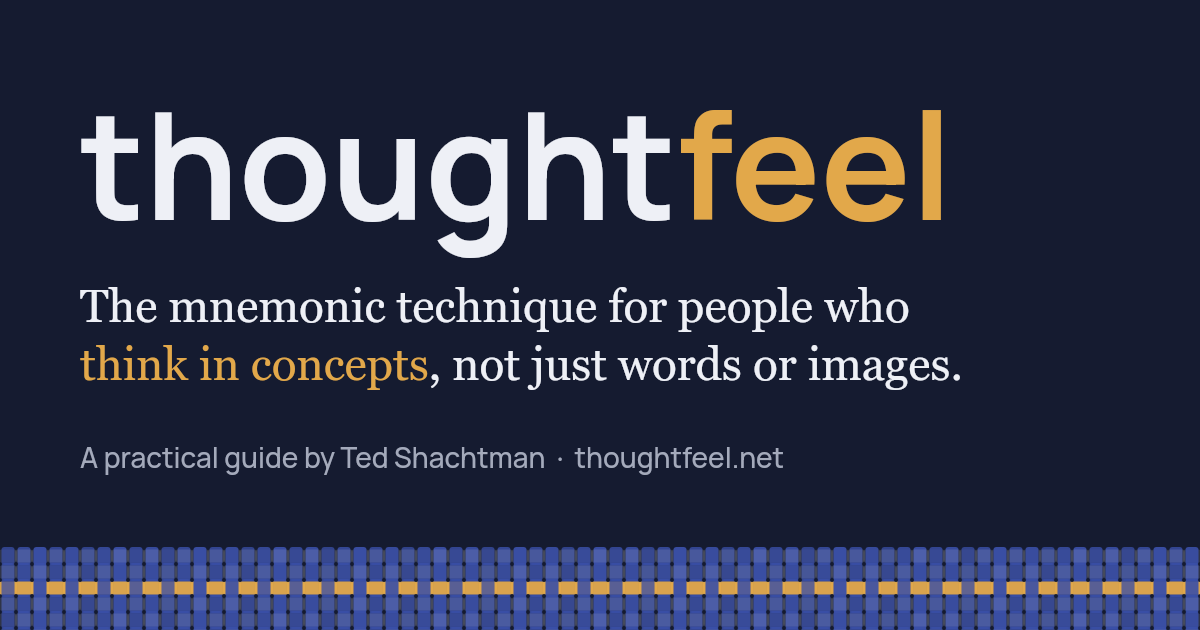
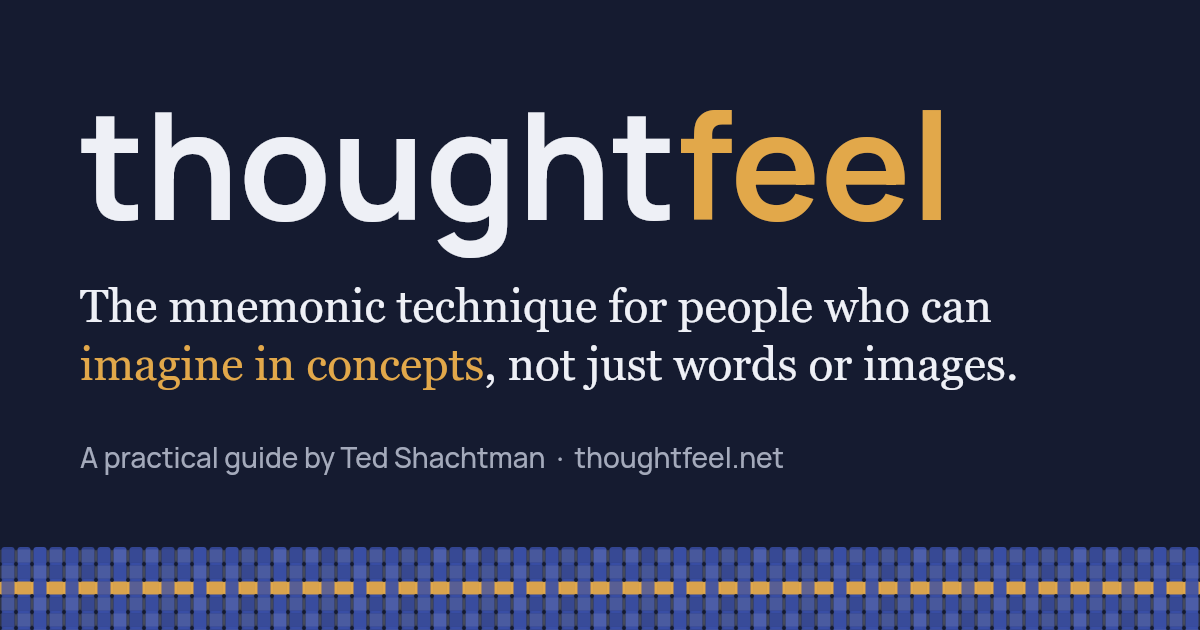
Update site

Changed region(s): [[0.0617, 0.5429, 0.8633, 0.6333], [0.7708, 0.4524, 0.8325, 0.5127]]

diff --git a/index.html b/index.html
@@ -3,21 +3,21 @@
 <head>
 <meta charset="utf-8">
 <meta name="viewport" content="width=device-width, initial-scale=1, viewport-fit=cover">
-<meta name="description" content="The mnemonic technique for people who think in concepts, not just words or images. Use the feel of your thoughts to remember more and learn faster.">
+<meta name="description" content="The mnemonic technique for people who can imagine in concepts, not just words or images. Take the 1-minute test.">
 <link rel="canonical" href="https://thoughtfeel.net/">
 <link rel="icon" href="favicon.svg" type="image/svg+xml">
 <meta property="og:type" content="website">
 <meta property="og:site_name" content="thoughtfeel">
 <meta property="og:title" content="thoughtfeel: a practical guide">
-<meta property="og:description" content="The mnemonic technique for people who think in concepts, not just words or images. Use the feel of your thoughts to remember more and learn faster.">
+<meta property="og:description" content="The mnemonic technique for people who can imagine in concepts, not just words or images. Take the 1-minute test.">
 <meta property="og:url" content="https://thoughtfeel.net/">
 <meta property="og:image" content="https://thoughtfeel.net/og.png">
 <meta property="og:image:width" content="1200">
 <meta property="og:image:height" content="630">
-<meta property="og:image:alt" content="thoughtfeel: the mnemonic technique for people who think in concepts, not just words or images.">
+<meta property="og:image:alt" content="thoughtfeel: the mnemonic technique for people who can imagine in concepts, not just words or images.">
 <meta name="twitter:card" content="summary_large_image">
 <meta name="twitter:title" content="thoughtfeel: a practical guide">
-<meta name="twitter:description" content="The mnemonic technique for people who think in concepts, not just words or images. Use the feel of your thoughts to remember more and learn faster.">
+<meta name="twitter:description" content="The mnemonic technique for people who can imagine in concepts, not just words or images. Take the 1-minute test.">
 <meta name="twitter:image" content="https://thoughtfeel.net/og.png">
 </head>
 <body>
@@ -307,6 +307,42 @@
   .miss { color: var(--miss); }
   .linkish { background: none; border: 0; padding: 0; font: inherit; font-size: 15px; color: var(--ink-2); text-decoration: underline; text-underline-offset: 3px; cursor: pointer; }
 
+  /* ---------- The test (imagine in concepts) ---------- */
+  .imt + .try { margin-top: 40px; }
+  .imt .imt-grid { display: grid; grid-template-columns: minmax(0, 1fr); gap: 28px 48px; margin-top: 24px; align-items: start; }
+  @media (min-width: 900px) { .imt .imt-grid { grid-template-columns: minmax(0, .85fr) minmax(0, 1.15fr); } }
+  .imt .imt-ways-title { font-family: var(--sans); font-weight: 700; font-size: 18px; margin: 0 0 12px; }
+  .imt .imt-ways { list-style: none; margin: 0; padding: 0; display: grid; gap: 12px; }
+  .imt .imt-ways li { display: grid; grid-template-columns: 10ch minmax(0, 1fr); gap: 12px; align-items: baseline; padding-bottom: 12px; border-bottom: 1px solid var(--rule); }
+  .imt .imt-ways li:last-child { border-bottom: 0; padding-bottom: 0; }
+  .imt .imt-ways b { font-family: var(--sans); font-weight: 500; }
+  .imt .imt-ways .gold b { color: var(--term); }
+  .imt .imt-ways span { color: var(--ink-2); font-size: 16px; line-height: 1.5; }
+  .imt .imt-panel { min-height: 330px; }
+  .imt .imt-progress { display: grid; grid-template-columns: repeat(5, 1fr); gap: 6px; }
+  .imt .imt-progress span { height: 4px; border-radius: 2px; background: var(--rule); }
+  .imt .imt-progress .done { background: var(--indigo); }
+  .imt .imt-progress .now { background: var(--weld); }
+  .imt .imt-label { font-family: var(--mono); font-size: 12.5px; letter-spacing: .1em; text-transform: uppercase; color: var(--term); margin: 0; }
+  .imt .imt-prompt { font-size: clamp(20px, 2.2vw, 23px); line-height: 1.45; margin: 0; outline: none; text-wrap: pretty; }
+  .imt .imt-q { font-family: var(--sans); font-weight: 500; font-size: 17px; line-height: 1.4; margin: 0; }
+  .imt .imt-choices { display: flex; flex-wrap: wrap; gap: 10px; }
+  .imt .imt-choice { background: var(--surface); }
+  .imt .imt-choice:hover { background: var(--indigo-soft); }
+  .imt .imt-head { font-family: var(--sans); font-weight: 700; font-size: clamp(22px, 2.6vw, 28px); line-height: 1.2; letter-spacing: -0.01em; margin: 0; text-wrap: balance; outline: none; }
+  .imt .imt-text { margin: 0; }
+  .imt .imt-rows { list-style: none; margin: 0; padding: 0; display: grid; gap: 8px; }
+  .imt .imt-rows li {
+    display: grid; grid-template-columns: minmax(0, 1fr) auto 7ch; gap: 12px; align-items: center;
+    background: var(--surface); border-radius: 8px; padding: 9px 14px; font-family: var(--sans); font-size: 15.5px;
+  }
+  .imt .imt-meter { display: inline-grid; grid-template-columns: 18px 18px; gap: 4px; }
+  .imt .imt-meter i { height: 8px; border-radius: 4px; background: var(--rule); }
+  .imt .imt-meter[data-v="1"] i:first-child, .imt .imt-meter[data-v="2"] i { background: var(--indigo); }
+  .imt .gold .imt-meter[data-v="1"] i:first-child, .imt .gold .imt-meter[data-v="2"] i { background: var(--weld); }
+  .imt .imt-rows .val { font-family: var(--mono); font-size: 13px; color: var(--ink-2); text-align: right; }
+  .imt .imt-actions { display: flex; flex-wrap: wrap; gap: 10px; }
+
   /* ---------- Videos ---------- */
   .videos { margin-top: 72px; }
   .videos-head { max-width: 62ch; }
@@ -464,12 +500,12 @@
   <header class="hero">
     <div>
       <h1 class="wordmark">thought<span>feel</span></h1>
-      <p class="tagline">The mnemonic technique for people who think in concepts, not just words or images.</p>
+      <p class="tagline">The mnemonic technique for people who can imagine in concepts, not just words or images.</p>
       <p class="tagline-sub">A practical guide to using the feel of your thoughts to remember more, learn faster, and think with more ideas at once.</p>
       <p class="byline">BY <a href="#about">TED SHACHTMAN</a></p>
       <div class="hero-actions">
-        <a class="btn primary" href="#what">What is thoughtfeel?</a>
-        <a class="btn" href="#try">Try it in 5 minutes</a>
+        <a class="btn primary" href="#test">Take the 1-minute test</a>
+        <a class="btn" href="#what">What is thoughtfeel?</a>
         <a class="btn" href="#videos">Watch the videos</a>      </div>
     </div>
     <div class="swatch-wrap" aria-hidden="true">
@@ -540,9 +576,40 @@
     <p class="vocab"><span class="vocab-label">Three words you’ll see here and in the videos</span> A <dfn>texture</dfn> is one component of a thought’s feel, like <em>animal</em>. The <dfn>fabric</dfn> is the whole felt thought. <dfn>Weaving</dfn> is combining textures to form a new thought.</p>
   </section>
 
+  <!-- ================= Test ================= -->
+  <section class="try imt" id="test" aria-labelledby="test-title">
+    <p class="eyebrow">The test · about 1 minute</p>
+    <h2 id="test-title">Can you imagine in concepts, not just words or images?</h2>
+    <p class="lede">There’s more than one way to imagine something. Try each one with the same idea and mark what you can do. People differ here, so there are no wrong answers.</p>
+
+    <div class="imt-grid">
+      <div>
+        <p class="imt-ways-title">Four ways to imagine</p>
+        <ul class="imt-ways">
+          <li><b>In images</b><span>Picturing it.</span></li>
+          <li><b>In sounds</b><span>Hearing it, including words in your head.</span></li>
+          <li><b>Knowing</b><span>Just knowing what you’re imagining.</span></li>
+          <li class="gold"><b>In concepts</b><span>The idea itself, with a feel of its own. Some people can do this, and some can’t.</span></li>
+        </ul>
+      </div>
+
+      <div class="panel imt-panel" id="imt" aria-live="polite">
+        <!-- rendered by script; this is the no-script version -->
+        <p class="imt-label">Five quick steps</p>
+        <ol class="steps">
+          <li>Imagine a purple giraffe on roller skates. Can you picture it?</li>
+          <li>Now hear it: the wheels rolling, or the words in your head. Can you hear it?</li>
+          <li>Let the picture and the sounds go. Do you still know what you were imagining?</li>
+          <li>Now imagine it in concepts: no picture, no words, and more than just knowing. Is there something specific you can attend to?</li>
+          <li>Keep the picture the same. The skates are borrowed. Now they’re stolen. Did the idea itself change in a way you could attend to?</li>
+        </ol>
+      </div>
+    </div>
+  </section>
+
   <!-- ================= Exercise ================= -->
   <section class="try" id="try" aria-labelledby="try-title">
-    <p class="eyebrow">Try it · about 5 minutes</p>
+    <p class="eyebrow">Use it · about 5 minutes</p>
     <h2 id="try-title">Remember five words through their feel</h2>
     <p class="lede">This exercise uses thoughtfeel to hold five words in order, then checks what you kept.</p>
 
@@ -1273,6 +1340,131 @@
 
   renderIntro();
 
+  /* ---------- The test: can you imagine in concepts? ---------- */
+  // The answers go along with an email signup (as test_answers), so each signup says how the person imagines.
+  var imtSummary = '', imtOutcome = '';
+  var imt = document.getElementById('imt');
+  if (imt) (function () {
+    var STEPS = [
+      { key: 'images', label: 'In images', prompt: 'Imagine a purple giraffe on roller skates.',
+        q: 'Can you picture it?', a: ['Yes', 'Sort of', 'No'] },
+      { key: 'sounds', label: 'In sounds', prompt: 'Now hear it: the wheels rolling, or the words “purple giraffe on roller skates” in your head.',
+        q: 'Can you hear it?', a: ['Yes', 'Sort of', 'No'] },
+      { key: 'knowing', label: 'Knowing', prompt: 'Let the picture and the sounds go. You still know what you were imagining. That’s the feeling of knowing.',
+        q: 'Do you still know what it was?', a: ['Yes', 'Sort of', 'No'] },
+      { key: 'concepts', label: 'In concepts', prompt: 'Now imagine it in concepts: no picture, no words, and more than just knowing. Is there something specific you can attend to: the giraffe, the purple, the skating, and how they fit together?',
+        q: 'Can you imagine it in concepts?', a: ['Yes, clearly', 'Sort of', 'No, I just know it'] },
+      { key: 'check', label: 'The check', prompt: 'Keep the picture exactly the same. First, the skates are borrowed. Now, they’re stolen.',
+        q: 'The picture didn’t change. Apart from knowing which is which, did the idea itself change in a way you could attend to?', a: ['Yes', 'A little', 'No'] }
+    ];
+    var STRENGTH = [2, 1, 0];                 // answer position → 2 yes, 1 partly, 0 no
+    var WORD = ['no', 'sort of', 'yes'];      // strength → word for the summary
+    var FIRST_LESSON = 'https://www.youtube.com/watch?v=vn5jVP1_C-c';
+    var SHARE_URL = 'https://thoughtfeel.net/#test';
+    var answers = [];
+
+    function focusFirst(sel) { var el = imt.querySelector(sel); if (el) el.focus({ preventScroll: true }); }
+
+    function renderStep(i, moveFocus) {
+      var s = STEPS[i];
+      imt.innerHTML =
+        '<div class="imt-progress" aria-hidden="true">' + STEPS.map(function (_, k) {
+          return '<span class="' + (k < i ? 'done' : k === i ? 'now' : '') + '"></span>';
+        }).join('') + '</div>' +
+        '<p class="imt-label">' + (i + 1) + ' of ' + STEPS.length + ' · ' + s.label + '</p>' +
+        '<p class="imt-prompt" tabindex="-1">' + s.prompt + '</p>' +
+        '<p class="imt-q">' + s.q + '</p>' +
+        '<div class="imt-choices">' + s.a.map(function (t, k) {
+          return '<button type="button" class="btn imt-choice" data-v="' + STRENGTH[k] + '">' + t + '</button>';
+        }).join('') + '</div>' +
+        (i > 0 ? '<p class="imt-text"><button type="button" class="linkish" data-act="back">Back</button></p>' : '');
+      if (moveFocus) focusFirst('.imt-prompt');
+    }
+
+    function renderResult() {
+      var A = {};
+      STEPS.forEach(function (s, k) { A[s.key] = answers[k]; });
+      imtOutcome = A.concepts === 2 && A.check >= 1 ? 'strong' : (A.concepts >= 1 || A.check >= 1) ? 'faint' : 'none';
+      imtSummary = STEPS.map(function (s) { return s.key + ': ' + WORD[A[s.key]]; }).join(', ') + ' (' + imtOutcome + ')';
+
+      var head, text;
+      if (imtOutcome === 'strong') {
+        head = 'You can imagine in concepts.';
+        text = 'That’s what thoughtfeel is built on. For me, imagining in concepts is vivid, and distinct from both the picture and the words: every thought has a feel of its own, specific enough to recognize what I’m thinking from the feel alone. The lessons show how to use it to remember exact wording, notice when two situations are the same idea, and remember things at the right moment.';
+      } else if (imtOutcome === 'faint') {
+        head = 'You may be able to imagine in concepts, a little.';
+        text = 'It may get clearer once you know what to attend to. The first lesson describes what the feel of a thought is like for me, and the exercise below gives you something to practice on.';
+      } else {
+        var modes = [];
+        if (A.images >= 1) modes.push('images');
+        if (A.sounds >= 1) modes.push('sounds');
+        head = modes.length ? 'You imagine in ' + modes.join(' and ') + ', and by knowing.' : 'You imagine by knowing.';
+        text = modes.length
+          ? 'Those are the usual ways to imagine. Some people can also imagine in concepts; the rest of this page is about how they can use it. If you’re curious what it’s like, the first lesson describes it.'
+          : 'With no picture and no sound, what you call knowing might be close to what I call imagining in concepts. The first lesson describes what it’s like for me, so you can compare.';
+      }
+
+      var rows = [['In images', A.images, ''], ['In sounds', A.sounds, ''], ['Knowing', A.knowing, ''],
+                  ['In concepts', A.concepts, 'gold'], ['The check', A.check, 'gold']];
+      imt.innerHTML =
+        '<p class="imt-label">Your result</p>' +
+        '<p class="imt-head" tabindex="-1">' + head + '</p>' +
+        '<ul class="imt-rows">' + rows.map(function (r) {
+          return '<li class="' + r[2] + '"><span>' + r[0] + '</span>' +
+            '<span class="imt-meter" data-v="' + r[1] + '" aria-hidden="true"><i></i><i></i></span>' +
+            '<span class="val">' + WORD[r[1]] + '</span></li>';
+        }).join('') + '</ul>' +
+        '<p class="imt-text">' + text + '</p>' +
+        '<div class="imt-actions">' +
+          '<a class="btn primary" href="' + FIRST_LESSON + '" target="_blank" rel="noopener">Watch the first lesson</a>' +
+          '<a class="btn" href="#updates" data-act="join">Get new lessons</a>' +
+          '<button type="button" class="btn quiet" data-act="share">Share the test</button>' +
+        '</div>' +
+        '<p class="imt-text"><button type="button" class="linkish" data-act="again">Take it again</button></p>';
+      focusFirst('.imt-head');
+    }
+
+    function share(button) {
+      var text = 'Can you imagine in concepts, not just words or images? A 1-minute test:';
+      var done = function () { button.textContent = 'Link copied'; setTimeout(function () { button.textContent = 'Share the test'; }, 1800); };
+      if (navigator.share) { navigator.share({ title: 'Can you imagine in concepts?', text: text, url: SHARE_URL }).catch(function () {}); return; }
+      var fallback = function () {
+        var ta = document.createElement('textarea'); ta.value = text + ' ' + SHARE_URL;
+        ta.setAttribute('readonly', ''); ta.style.position = 'absolute'; ta.style.left = '-9999px';
+        document.body.appendChild(ta); ta.select();
+        try { document.execCommand('copy'); done(); } catch (e) {}
+        document.body.removeChild(ta);
+      };
+      if (navigator.clipboard && navigator.clipboard.writeText) navigator.clipboard.writeText(text + ' ' + SHARE_URL).then(done, fallback);
+      else fallback();
+    }
+
+    imt.addEventListener('click', function (e) {
+      var b = e.target.closest('button, a[data-act]');
+      if (!b) return;
+      if (b.classList.contains('imt-choice')) {
+        answers.push(Number(b.getAttribute('data-v')));
+        if (answers.length < STEPS.length) renderStep(answers.length, true); else renderResult();
+        return;
+      }
+      var act = b.getAttribute('data-act');
+      if (act === 'back') { answers.pop(); renderStep(answers.length, true); }
+      else if (act === 'again') { answers = []; imtSummary = ''; imtOutcome = ''; renderStep(0, true); }
+      else if (act === 'share') share(b);
+      else if (act === 'join') {
+        // Pre-answer the signup's "do you recognize it?" question from the result, unless it's already answered.
+        var form = document.getElementById('signup');
+        if (form && !form.querySelector('input[name="recognizes_thoughtfeel"]:checked')) {
+          var id = { strong: 'signup-yes', faint: 'signup-unsure', none: 'signup-no' }[imtOutcome];
+          var radio = id && document.getElementById(id);
+          if (radio) radio.checked = true;
+        }
+      }
+    });
+
+    renderStep(0, false);
+  })();
+
   /* ---------- Email signup (FormSubmit forwards each signup to Ted's inbox) ---------- */
   var signup = document.getElementById('signup');
   if (signup) signup.addEventListener('submit', function (e) {
@@ -1288,6 +1480,7 @@
     var payload = {
       email: email,
       recognizes_thoughtfeel: picked ? picked.value : 'not answered',
+      test_answers: imtSummary || 'not taken',
       _subject: 'New thoughtfeel signup',
       _template: 'table'
     };
